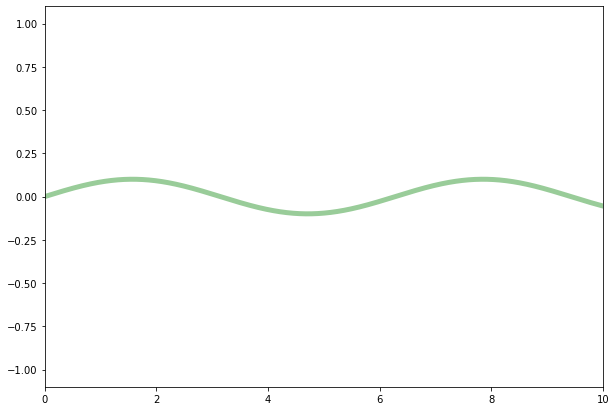
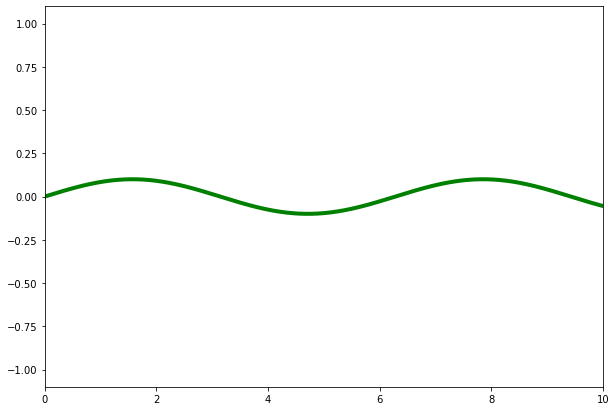
fixed example

Changed region(s): [[0.401, 0.4088, 0.987, 0.5255], [0.0925, 0.4088, 0.401, 0.4964], [0.0617, 0.4672, 0.0925, 0.4964]]

diff --git a/index.html b/index.html
@@ -13102,31 +13102,107 @@ div#notebook {
 <div class="cell border-box-sizing text_cell rendered"><div class="prompt input_prompt">
 </div><div class="inner_cell">
 <div class="text_cell_render border-box-sizing rendered_html">
-<h2 id="Example">Example<a class="anchor-link" href="#Example">&#182;</a></h2>
+<h1 id="Example">Example<a class="anchor-link" href="#Example">&#182;</a></h1><p>Here is a basic example (modified from the forked repository) to show the kind of interactive figure you can obtain. As you can see, it looks very similar to the regular ipywidgets version. However, the key difference is that this interactive figure is not running any python code behind the hood. When you interact with it, JavaScript code is run to select the appropriate, previously generated, image from the <code>example_imgs</code> directory. This makes possible to display the interactive image in a static webpage. Such as the one created by exporting <a href="https://semidanrobaina.com/staticInteract/">this notebook to html</a>.</p>
+<p><strong>IMPORTANT NOTE:</strong>
+JavaScript functions are added to the Notebook on module import. Due to Python not reimporting already imported modules... if staticinteract is reimported, JavaScript functions will be removed from the Notebook and, consequently, the interactive plot will break. Thus, the module should be imported only once within each kernel session.</p>
+
 </div>
 </div>
 </div>
 <div class="cell border-box-sizing code_cell rendered">
 <div class="input">
-<div class="prompt input_prompt">In&nbsp;[2]:</div>
+<div class="prompt input_prompt">In&nbsp;[1]:</div>
 <div class="inner_cell">
     <div class="input_area">
 <div class=" highlight hl-ipython3"><pre><span></span><span class="o">%</span><span class="k">matplotlib</span> inline
 <span class="kn">import</span> <span class="nn">numpy</span> <span class="k">as</span> <span class="nn">np</span>
 <span class="kn">import</span> <span class="nn">matplotlib.pyplot</span> <span class="k">as</span> <span class="nn">plt</span>
 <span class="kn">from</span> <span class="nn">staticinteract</span> <span class="kn">import</span> <span class="n">StaticInteract</span><span class="p">,</span> <span class="n">RangeWidget</span><span class="p">,</span> <span class="n">RadioWidget</span>
+</pre></div>
+
+    </div>
+</div>
+</div>
+
+<div class="output_wrapper">
+<div class="output">
 
 
-<span class="k">def</span> <span class="nf">plot_fun</span><span class="p">(</span><span class="n">amplitude</span><span class="p">,</span> <span class="n">color</span><span class="p">):</span>
-    <span class="n">fig</span><span class="p">,</span> <span class="n">ax</span> <span class="o">=</span> <span class="n">plt</span><span class="o">.</span><span class="n">subplots</span><span class="p">(</span><span class="n">figsize</span><span class="o">=</span><span class="p">(</span><span class="mi">10</span><span class="p">,</span> <span class="mi">7</span><span class="p">),</span>
-                           <span class="n">subplot_kw</span><span class="o">=</span><span class="p">{</span><span class="c1">#&#39;axisbg&#39;:&#39;#EEEEEE&#39;,</span>
-                                       <span class="s1">&#39;axisbelow&#39;</span><span class="p">:</span><span class="kc">True</span><span class="p">})</span>
-    <span class="n">ax</span><span class="o">.</span><span class="n">grid</span><span class="p">(</span><span class="n">color</span><span class="o">=</span><span class="s1">&#39;w&#39;</span><span class="p">,</span> <span class="n">linewidth</span><span class="o">=</span><span class="mi">2</span><span class="p">,</span> <span class="n">linestyle</span><span class="o">=</span><span class="s1">&#39;solid&#39;</span><span class="p">)</span>
+<div class="output_area">
+
+    <div class="prompt"></div>
+
+
+
+<div class="output_html rendered_html output_subarea ">
+
+    <script>
+      if(typeof mergeNodes !== "Undefined") {{
+         let mergeNodes;
+      }}
+      mergeNodes = function(a, b) {{
+        return [].slice.call(a).concat([].slice.call(b));
+      }}; // http://stackoverflow.com/questions/914783/javascript-nodelist/17262552#17262552
+
+      function interactUpdate(elem){{
+         let div = elem.parentNode;
+
+         if(elem.type === "range") {{
+            let label = document.getElementById(elem.id + "_label");
+            label.innerHTML = elem.value; // update label with input value
+         }}
+
+         let outputs = div.getElementsByTagName("div");
+         //let controls = div.getElementsByTagName("input");
+         let controls = mergeNodes(div.getElementsByTagName("input"), div.getElementsByTagName("select"));
+         function nameCompare(a,b) {{
+            return a.getAttribute("name").localeCompare(b.getAttribute("name"));
+         }}
+         controls.sort(nameCompare);
+
+         let value = "";
+         for(i=0; i<controls.length; i++){{
+           if((controls[i].type == "range") || controls[i].checked){{
+             value = value + controls[i].getAttribute("name") + controls[i].value;
+           }}
+           if(controls[i].type == "select-one"){{
+             value = value + controls[i].getAttribute("name") + controls[i][controls[i].selectedIndex].value;
+           }}
+         }}
+         value = value.replace(/\s/g,"");
+         for(i=0; i<outputs.length; i++){{
+           let name = outputs[i].getAttribute("name");
+           if(name == value){{
+              outputs[i].style.display = 'block';
+           }} else if(name != "controls"){{
+              outputs[i].style.display = 'none';
+           }}
+         }}
+      }}
+    </script>
+    
+</div>
+
+</div>
+
+</div>
+</div>
+
+</div>
+<div class="cell border-box-sizing code_cell rendered">
+<div class="input">
+<div class="prompt input_prompt">In&nbsp;[2]:</div>
+<div class="inner_cell">
+    <div class="input_area">
+<div class=" highlight hl-ipython3"><pre><span></span><span class="k">def</span> <span class="nf">plot_fun</span><span class="p">(</span><span class="n">amplitude</span><span class="p">,</span> <span class="n">color</span><span class="p">):</span>
+    
+    <span class="n">fig</span> <span class="o">=</span> <span class="n">plt</span><span class="o">.</span><span class="n">figure</span><span class="p">(</span><span class="n">figsize</span><span class="o">=</span><span class="p">(</span><span class="mi">10</span><span class="p">,</span><span class="mi">7</span><span class="p">))</span>
     <span class="n">x</span> <span class="o">=</span> <span class="n">np</span><span class="o">.</span><span class="n">linspace</span><span class="p">(</span><span class="mi">0</span><span class="p">,</span> <span class="mi">10</span><span class="p">,</span> <span class="mi">1000</span><span class="p">)</span>
-    <span class="n">ax</span><span class="o">.</span><span class="n">plot</span><span class="p">(</span><span class="n">x</span><span class="p">,</span> <span class="n">amplitude</span> <span class="o">*</span> <span class="n">np</span><span class="o">.</span><span class="n">sin</span><span class="p">(</span><span class="n">x</span><span class="p">),</span> <span class="n">color</span><span class="o">=</span><span class="n">color</span><span class="p">,</span>
-            <span class="n">lw</span><span class="o">=</span><span class="mi">5</span><span class="p">,</span> <span class="n">alpha</span><span class="o">=</span><span class="mf">0.4</span><span class="p">)</span>
-    <span class="n">ax</span><span class="o">.</span><span class="n">set_xlim</span><span class="p">(</span><span class="mi">0</span><span class="p">,</span> <span class="mi">10</span><span class="p">)</span>
-    <span class="n">ax</span><span class="o">.</span><span class="n">set_ylim</span><span class="p">(</span><span class="o">-</span><span class="mf">1.1</span><span class="p">,</span> <span class="mf">1.1</span><span class="p">)</span>
+    <span class="n">f_x</span> <span class="o">=</span> <span class="n">amplitude</span> <span class="o">*</span> <span class="n">np</span><span class="o">.</span><span class="n">sin</span><span class="p">(</span><span class="n">x</span><span class="p">)</span>
+    <span class="n">plt</span><span class="o">.</span><span class="n">plot</span><span class="p">(</span><span class="n">x</span><span class="p">,</span> <span class="n">f_x</span><span class="p">,</span> <span class="n">color</span><span class="o">=</span><span class="n">color</span><span class="p">,</span> <span class="n">linewidth</span><span class="o">=</span><span class="mi">4</span><span class="p">)</span>
+    <span class="n">plt</span><span class="o">.</span><span class="n">xlim</span><span class="p">([</span><span class="mi">0</span><span class="p">,</span> <span class="mi">10</span><span class="p">])</span>
+    <span class="n">plt</span><span class="o">.</span><span class="n">ylim</span><span class="p">([</span><span class="o">-</span><span class="mf">1.1</span><span class="p">,</span> <span class="mf">1.1</span><span class="p">])</span>
+    
     <span class="k">return</span> <span class="n">fig</span>
 
 <span class="n">i_fig</span> <span class="o">=</span> <span class="n">StaticInteract</span><span class="p">(</span><span class="n">plot_fun</span><span class="p">,</span>
@@ -13295,19 +13371,6 @@ div#notebook {
 
 </div>
 
-</div>
-</div>
-
-</div>
-<div class="cell border-box-sizing code_cell rendered">
-<div class="input">
-<div class="prompt input_prompt">In&nbsp;[&nbsp;]:</div>
-<div class="inner_cell">
-    <div class="input_area">
-<div class=" highlight hl-ipython3"><pre><span></span> 
-</pre></div>
-
-    </div>
 </div>
 </div>
 

diff --git a/staticinteract/interact.py b/staticinteract/interact.py
@@ -9,7 +9,8 @@ import os
 import warnings
 
 plt.rcParams.update({'figure.max_open_warning': 0}) 
-# TODO: suppresing warning is a temporary fix. We're closing figure in line 93. Don't understand why warning happening.
+# TODO: suppresing warning is a temporary fix. 
+# We're closing figure in line 93. Don't understand why warning happening.
 
 if sys.version_info.major > 2:
     dict_items = 'items'
